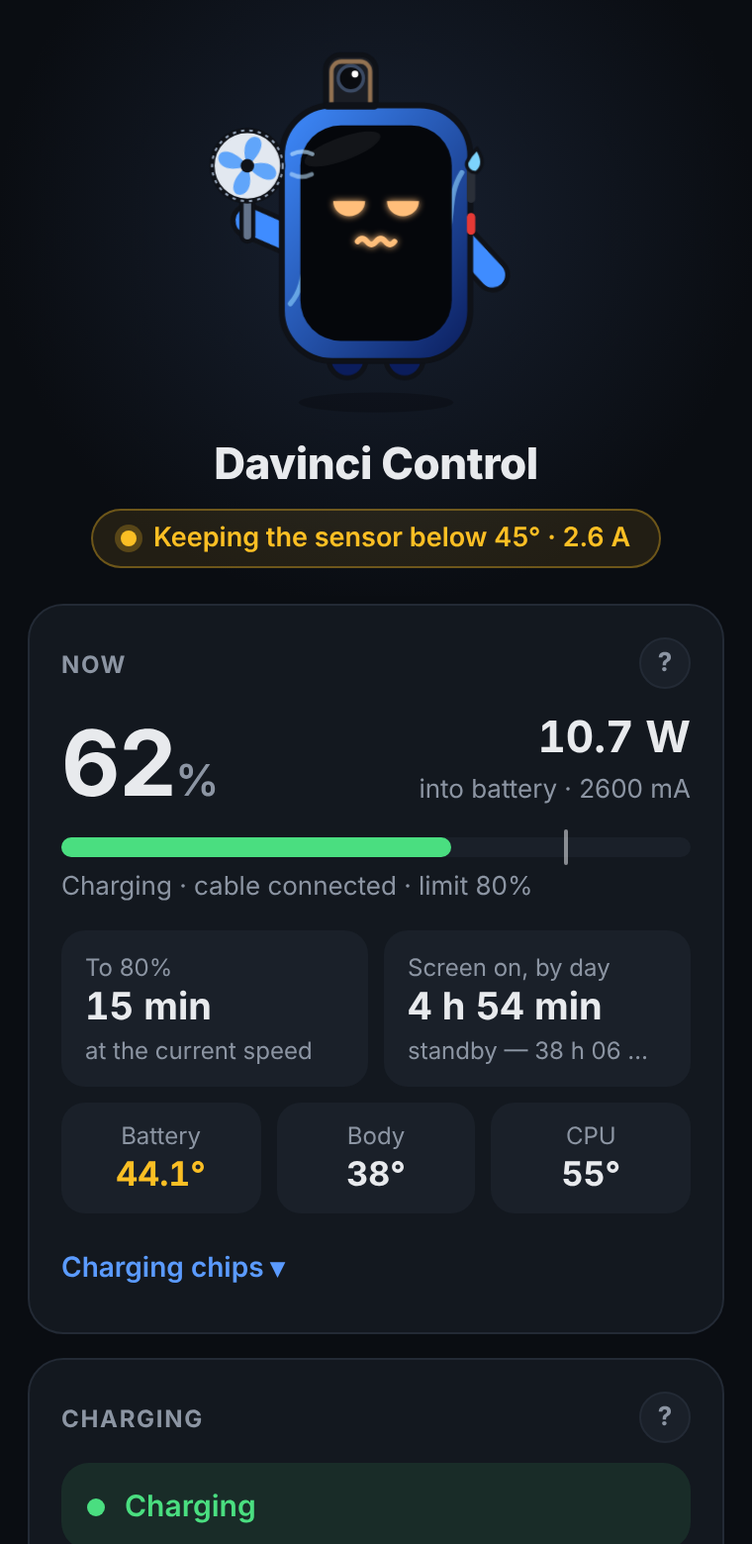
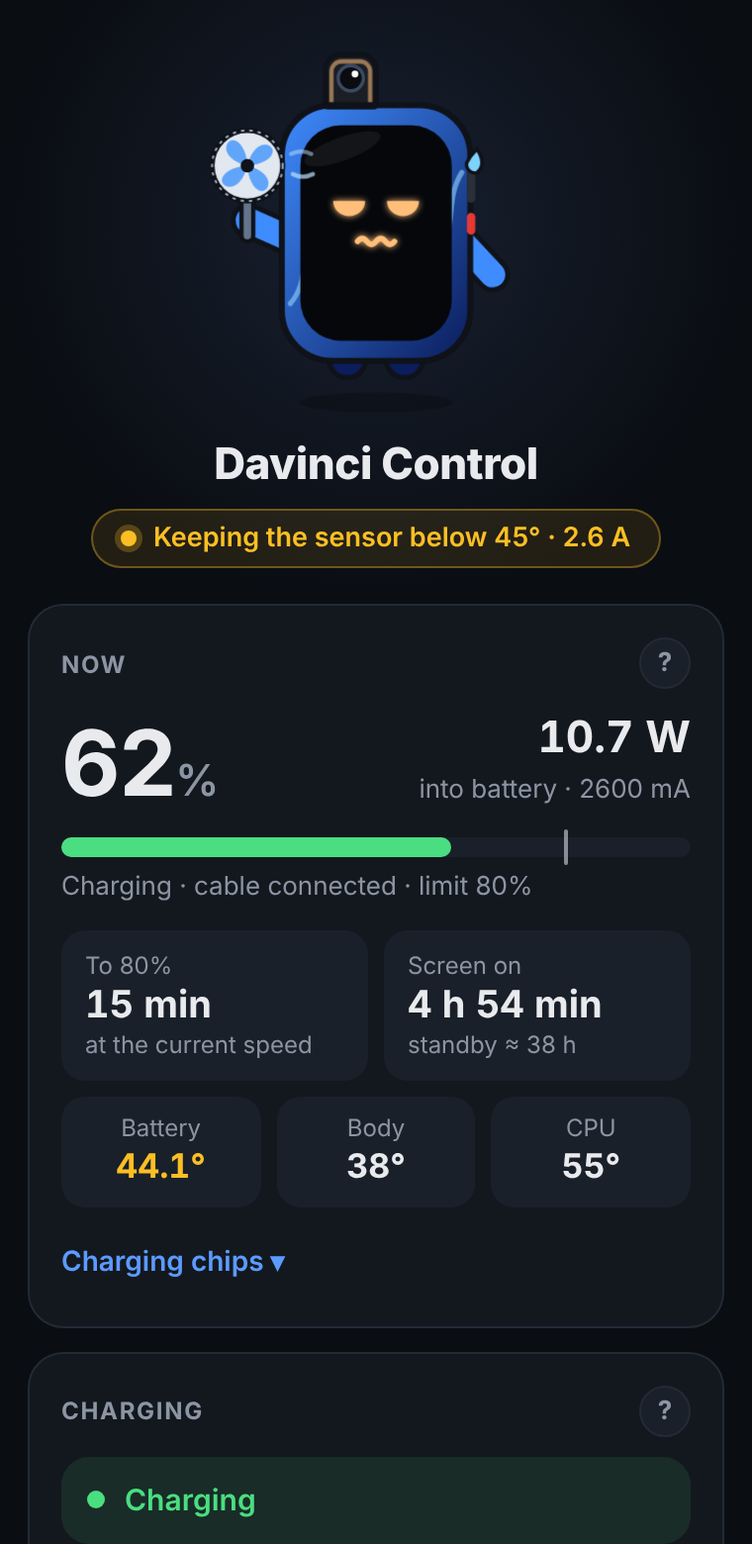
Панель: выравнивание плиток, записи в две строки, время в 24 часах; диагностика: чтение с пределом времени / panel alignment pass; time-boxed reads in diagnostics
- плитки в ряду делят общие строки, короткие подписи / boxes share rows, shorter labels
- зарядки и ночи: главное и подробности отдельными строками / charges and nights as two-line records
- время «к времени» — два списка, всегда 24 часа / charge-by-time as two lists, always 24-hour
- диагностика: charger_temp без кабеля не отвечает — чтение не дольше 3 с / reads limited to 3 s

diff --git a/module/webroot/i18n.js b/module/webroot/i18n.js
@@ -24,8 +24,8 @@ const I18N = {
     // сейчас / now
     now: 'Сейчас', in_batt: 'в батарею', usage: 'расход', st_Charging: 'Заряжается', st_Discharging: 'Разряжается', 'st_Not charging': 'Не заряжается', st_Full: 'Заряжена',
     cable: 'кабель подключён', limit_short: 'лимит {1}%', to_target: 'До {1}%', ready: 'готово', at_speed: 'при текущей скорости',
-    last_now: 'Хватит при текущем расходе', to_zero: 'до 0%, сглажено', by_day: 'С экраном, по суткам', standby: 'в ожидании — {1}', collecting: 'данные копятся',
-    t_batt: 'Батарея', t_body: 'Корпус', t_cpu: 'Процессор', chips: 'Микросхемы зарядки', t_pmic: 'Чип PM6150', t_cp: 'Чип SMB1390', t_conn: 'Разъём',
+    last_now: 'Хватит на', to_zero: 'при таком расходе', by_day: 'С экраном', standby: 'в ожидании ≈ {1}', fmt_h: '{1} ч', fb_h: 'Часы', fb_m: 'Минуты', collecting: 'данные копятся',
+    t_batt: 'Батарея', t_body: 'Корпус', t_cpu: 'Процессор', chips: 'Микросхемы зарядки', t_pmic: 'PM6150', t_cp: 'SMB1390', t_conn: 'Разъём',
     h_now: 'Заряд, мощность и прогноз. «Датчик батареи» стоит у разъёма: на быстрой зарядке он показывает на 6–11° больше, чем сама батарея. «Микросхемы зарядки»: PM6150 — контроллер зарядки, SMB1390 — микросхема быстрой зарядки (включается на большом токе; пока выключена, температуры нет) и разъём. Они тоже могут снижать ток.',
     // зарядка / charging
     charging: 'Зарядка', c_nosw: 'Лимит не работает: ядро не даёт остановить зарядку', c_nocable: 'Кабель не подключён', c_full: 'Заряжается до 100% (разово)', c_fullby: 'Заряжается до 100% к {1}',
@@ -45,9 +45,9 @@ const I18N = {
     thermal: 'Заводское снижение тока при нагреве корпуса', th_module: 'Сейчас отключено: из-за тёплого корпуса ток не снижается. Защита батареи в ядре работает.', th_stock: 'Сейчас работает: прошивка сама снижает ток, когда греется корпус.',
     th_mismatch: 'Работает и не отключается: файлы прошивки отличаются от проверенных.', th_nomount: 'Сейчас работает: отключить не получилось — root-менеджер не подменяет файлы.', th_will_off: 'После перезагрузки будет отключено.', th_will_on: 'После перезагрузки заработает снова.',
     usbfast: 'Быстрая зарядка от компьютера', usbfast_s: '900 мА вместо 500 от USB-порта',
-    sessions: 'Последние зарядки', sess_none: 'Пока нет: появится после зарядки дольше 5 минут.', sess_line: '{1}→{2}% за {3} · +{4}%/ч · ср. {5} А · до {6}°{7}{8}{9}',
+    sessions: 'Последние зарядки', sess_none: 'Пока нет: появится после зарядки дольше 5 минут.', sess_main: '{1} → {2}% за {3}', sess_sub: '+{1}%/ч · в среднем {2} А · до {3}°{4}{5}{6}',
     sess_scr: ' · экран {1}%', sess_jl: ' · JEITA с задержкой {1} с', sess_ch: ' · {1}', mode_care: 'бережно', mode_fast: 'быстро',
-    dt: 'Ток по ступеням (из ядра)', dt_none: 'Таблица недоступна', dt_lvl: 'Ступень {1}', dt_fcc: 'Общая таблица', dt_qc3: 'Таблица для Quick Charge 3', dt_qc3cp: 'Таблица для Quick Charge 3 на большом токе (работает SMB1390)', dt_qc2: 'Таблица для Quick Charge 2 (ток на входе)', dt_dcp: 'Таблица для обычного блока (ток на входе)', dt_pd: 'Таблица для USB PD (ток на входе)',
+    dt: 'Ток по ступеням (из ядра)', dt_none: 'Таблица недоступна', dt_fcc: 'Общая таблица', dt_qc3: 'Таблица для Quick Charge 3', dt_qc3cp: 'Таблица для Quick Charge 3 на большом токе (работает SMB1390)', dt_qc2: 'Таблица для Quick Charge 2 (ток на входе)', dt_dcp: 'Таблица для обычного блока (ток на входе)', dt_pd: 'Таблица для USB PD (ток на входе)',
     h_charging: 'Модуль управляет зарядкой через ядро: лимит, пауза при нагреве и ступени тока — тот же рычаг, что у заводской термозащиты. Аппаратная защита батареи в ядре (JEITA выше 45°, отключение при перегреве) работает всегда.',
     h_mode: '«Бережно»: ток снижается ступенями, как только батарея теплеет выше 41°, пауза с 42°. Медленнее, но батарея служит дольше. «Быстро»: полный ток; если датчик подходит к 44°, ток немного снижается (2,7–2,0 А), чтобы ядро не обрезало его до 1,95 А и 4,1 В. Пауза с 48° — аварийная. Ступени берутся из таблицы ядра для подключённого блока и считаются по амперам.',
     h_limit: 'Когда заряд дойдёт до этого уровня, зарядка остановится, а телефон будет питаться от кабеля. Снова заряжать начнёт, когда заряд упадёт на 5%. Батарея, которая не стоит на 100%, служит заметно дольше.',
@@ -66,7 +66,7 @@ const I18N = {
     h_bra: 'Когда отключаешь кабель, включается автояркость.',
     h_brs: 'Когда отключаешь кабель, включается штатная экономия заряда Android. Если выключишь её в шторке, она включится снова при следующем включении экрана. На зарядке Android выключает её сам.',
     // производительность / performance
-    perf: 'Производительность', p_perf: 'Максимум', p_balance: 'Баланс', p_eco: 'Экономия', p_own: 'Свои', p_custom: 'Свои пределы: малые ядра — {1}, большие — {2}. Меняются в «Точной настройке» ниже.',
+    perf: 'Производительность', p_perf: 'Макс.', p_balance: 'Баланс', p_eco: 'Эконом', p_own: 'Свои', p_custom: 'Свои пределы: малые ядра — {1}, большие — {2}. Меняются в «Точной настройке» ниже.',
     ph_perf: 'Без ограничений: самый быстрый отклик, больше нагрев и расход.', ph_balance: 'Малые ядра до 1612 МГц: интерфейс так же плавный, нагрев меньше. Большие — без ограничений.',
     ph_eco: 'Малые до 1324, большие до 1708 МГц: заметно меньше нагрев, тяжёлые приложения открываются чуть дольше.',
     little: 'Малые ядра', big: 'Большие ядра', gpu: 'Видеочип', of_mhz: '{1} из {2} МГц', heat: 'нагрев', gpu_now: '{1} МГц · загрузка {2}%',
@@ -79,9 +79,9 @@ const I18N = {
     g_drain: 'Расход по часам', lg_drain: 'за последние сутки', lg_typ_on: 'обычно с экраном: {1}', lg_typ_off: 'обычно во сне: {1}',
     g_cap: 'Заряд', g_temp: 'Температура батареи', ax24: '−24 ч', ax12: '−12 ч', axnow: 'сейчас', lg_pause: 'зарядка на паузе', lg_thr: 'порог', lg_gap: 'разрыв — телефон спал', every5: 'точка раз в 5 мин',
     nights: 'Ночи', night_none: 'Замеров пока нет: нужен период дольше 30 мин без кабеля с выключенным экраном.',
-    night_line: '{1} · {2} · −{3}% ({4}%/ч){5} · глубокий сон {6}%{7}{8}', night_ma: ' · {1} мА', night_mob: ' · моб. сеть {1}% трафика', night_sim: ' · SIM: {1}',
+    night_main: '−{1}% за {2}{3}', night_sub: '{1}%/ч · глубокий сон {2}%{3}{4}', night_ma: ' · {1} мА', night_mob: ' · моб. сеть {1}%', night_sim: ' · SIM: {1}',
     weeks: 'По неделям, средний ток во сне', week: 'нед. {1}', alert_sw: 'Предупреждать, если расход вырос',
-    health: 'Ёмкость батареи', cycles: 'Циклов зарядки', deep: 'Глубокий сон с загрузки', of_mah: '{1}% · {2} из {3} мАч',
+    health: 'Ёмкость', cycles: 'Циклов зарядки', deep: 'Глубокий сон с загрузки', of_mah: '{1}% · {2} из {3} мАч',
     h_use: 'Сколько уходит заряда с включённым и выключенным экраном за последние сутки. График расхода: сплошная линия — средний ток за каждый час, пунктир — обычный уровень за 7 дней: верхний — с включённым экраном, нижний — во сне. Ночью линия должна идти у нижнего пунктира; если она заметно выше, телефону что-то не даёт спать. Ниже — графики заряда и температуры и замеры ночного расхода. Данные хранятся только на телефоне.',
     h_nights: 'Замер — каждый период дольше 30 минут без кабеля с выключенным экраном. Рядом причины: глубокий сон (чем ближе к 100%, тем лучше), какая доля трафика шла через мобильную сеть (она расходует больше Wi-Fi) и сколько SIM-карт активно.',
     h_weeks: 'Средний ток во сне по неделям. Если за последнюю неделю он заметно вырос (на 30% и хотя бы на 10 мА), панель предупредит.',
@@ -91,13 +91,13 @@ const I18N = {
     diag_hint: 'Подробный технический отчёт о зарядке, нагреве и расходе — для сообщения об ошибке. Занимает около минуты. Файл сохраняется в «Загрузки/davinci-control» и никуда не отправляется. Адреса почты, IP и MAC в нём заменяются заглушками.',
     savelog: 'Сохранить только журнал', savelog_hint: 'Короткий файл: события модуля, настройки, последние зарядки и замеры расхода. Сохраняется мгновенно туда же.', saved_to: 'Сохранено: {1}', diag_busy: 'Диагностика уже идёт', diag_started: 'Диагностика запущена — около минуты',
     de_stuck: 'Диагностика остановилась и не ответила. Запусти ещё раз.', de_stopped: 'Остановлена перезапуском модуля', de_write: 'Не удалось записать файл',
-    restart: 'Перезапустить модуль', restart_hint: 'Если панель или диагностика зависли. Служба останавливается и запускается заново; настройки, журнал, статистика и текущая зарядка сохраняются. Перед этим модуль записывает, какие его процессы зависли и на чём, — запись попадёт в журнал и диагностику.', restart_run: 'Перезапускаю…', restart_ok: 'Перезапущено, служба работает', restart_bad: 'Служба не запустилась — перезагрузи телефон',
+    restart: 'Перезапустить модуль', restart_hint: 'Если панель или диагностика зависли. Настройки, журнал и статистика сохраняются.', h_restart: 'Служба и диагностика останавливаются и запускаются заново, телефон перезагружать не нужно. Настройки, журнал, статистика и текущая зарядка сохраняются. Перед этим модуль записывает, какие его процессы зависли и на чём, — запись попадёт в журнал и в следующую диагностику.', restart_run: 'Перезапускаю…', restart_ok: 'Перезапущено, служба работает', restart_bad: 'Служба не запустилась — перезагрузи телефон',
     applog: 'Записывать установку приложений', applog_s: 'Какие приложения ставились и удалялись — помогает найти причину расхода', h_applog: 'В журнал попадают имена пакетов установленных, обновлённых и удалённых приложений. Удобно, когда расход вырос и нужно понять, после чего. Записи остаются только в журнале на телефоне. По умолчанию выключено.',
     h_log: 'Что модуль делал и почему: здесь 10 последних событий, остальные — по кнопке «Все события». Если что-то работает не так, собери диагностику (или сохрани журнал) и приложи файл к сообщению об ошибке на GitHub. Сам модуль ничего никуда не отправляет.',
     // настройки панели / panel settings
-    panel: 'Панель', lang: 'Язык', l_auto: 'Как в системе', skin: 'Цвет маскота', sk_blue: 'Glacier Blue', sk_red: 'Flame Red', sk_black: 'Carbon Black',
+    panel: 'Панель', lang: 'Язык', l_auto: 'Авто', skin: 'Цвет маскота', sk_blue: 'Glacier Blue', sk_red: 'Flame Red', sk_black: 'Carbon Black',
     ntf: 'Уведомления', ntf_s: 'Пауза зарядки, заряд к времени, рост расхода', h_ntf: 'Модуль пишет в шторку, когда зарядка встала на паузу (лимит или нагрев), когда батарея заряжена к заданному времени и когда вырос расход во сне. Уведомления приходят от имени системного приложения «Shell» (Оболочка). При включении придёт пробное: если его нет, разреши уведомления для «Shell» в настройках Android. По умолчанию выключено.',
-    h_panel: 'Язык панели и журнала, цвет маскота и уведомления. «Как в системе» — русский, если телефон на русском, иначе английский.',
+    h_panel: 'Язык панели и журнала, цвет маскота и уведомления. «Авто» — русский, если телефон на русском, иначе английский.',
     whatsnew: 'что нового', current: 'текущая', loading: 'загрузка…',
     fmt_d: '{1} дн', fmt_hm: '{1} ч {2} мин', fmt_m: '{1} мин',
   },
@@ -122,8 +122,8 @@ const I18N = {
     p_nomount: 'Module thermal configs are not mounted: the root manager does not overlay files (KernelSU needs a metamodule).',
     now: 'Now', in_batt: 'into battery', usage: 'drain', st_Charging: 'Charging', st_Discharging: 'Discharging', 'st_Not charging': 'Not charging', st_Full: 'Full',
     cable: 'cable connected', limit_short: 'limit {1}%', to_target: 'To {1}%', ready: 'done', at_speed: 'at the current speed',
-    last_now: 'Lasts at the current drain', to_zero: 'to 0%, smoothed', by_day: 'Screen on, by day', standby: 'standby — {1}', collecting: 'collecting data',
-    t_batt: 'Battery', t_body: 'Body', t_cpu: 'CPU', chips: 'Charging chips', t_pmic: 'PM6150 chip', t_cp: 'SMB1390 chip', t_conn: 'Connector',
+    last_now: 'Lasts', to_zero: 'at this drain', by_day: 'Screen on', standby: 'standby ≈ {1}', fmt_h: '{1} h', fb_h: 'Hours', fb_m: 'Minutes', collecting: 'collecting data',
+    t_batt: 'Battery', t_body: 'Body', t_cpu: 'CPU', chips: 'Charging chips', t_pmic: 'PM6150', t_cp: 'SMB1390', t_conn: 'Connector',
     h_now: 'Charge, power and estimate. The battery sensor sits by the connector: on fast charging it reads 6–11° more than the battery itself. Charging chips: PM6150 is the charging controller, SMB1390 is the charge pump (it turns on at high current; no temperature while it is off), plus the connector. They can reduce current too.',
     charging: 'Charging', c_nosw: 'The limit does not work: the kernel does not allow stopping charging', c_nocable: 'Cable not connected', c_full: 'Charging to 100% (once)', c_fullby: 'Charging to 100% by {1}',
     c_hot: 'Paused: battery {1}°, resuming at {2}°', c_lim: 'Paused at {1}% — running on the cable', c_chg: 'Charging', c_idle: 'Cable connected, battery not charging',
@@ -142,9 +142,9 @@ const I18N = {
     thermal: 'Stock current reduction when the body is warm', th_module: 'Off now: a warm body does not reduce the current. Battery protection in the kernel works.', th_stock: 'Working now: the ROM reduces the current when the body warms up.',
     th_mismatch: 'Working and cannot be turned off: the ROM configs differ from the tested ones.', th_nomount: 'Working now: turning it off failed — the root manager does not overlay files.', th_will_off: 'Will be off after a reboot.', th_will_on: 'Will work again after a reboot.',
     usbfast: 'Fast charging from a computer', usbfast_s: '900 mA instead of 500 from a USB port',
-    sessions: 'Recent charges', sess_none: 'None yet: appears after charging for more than 5 minutes.', sess_line: '{1}→{2}% in {3} · +{4}%/h · avg {5} A · up to {6}°{7}{8}{9}',
+    sessions: 'Recent charges', sess_none: 'None yet: appears after charging for more than 5 minutes.', sess_main: '{1} → {2}% in {3}', sess_sub: '+{1}%/h · {2} A on average · up to {3}°{4}{5}{6}',
     sess_scr: ' · screen {1}%', sess_jl: ' · JEITA delayed {1} s', sess_ch: ' · {1}', mode_care: 'care', mode_fast: 'fast',
-    dt: 'Current per level (from the kernel)', dt_none: 'Table not available', dt_lvl: 'Level {1}', dt_fcc: 'General table', dt_qc3: 'Table for Quick Charge 3', dt_qc3cp: 'Table for Quick Charge 3 at high current (charge pump on)', dt_qc2: 'Table for Quick Charge 2 (input current)', dt_dcp: 'Table for a plain charger (input current)', dt_pd: 'Table for USB PD (input current)',
+    dt: 'Current per level (from the kernel)', dt_none: 'Table not available', dt_fcc: 'General table', dt_qc3: 'Table for Quick Charge 3', dt_qc3cp: 'Table for Quick Charge 3 at high current (charge pump on)', dt_qc2: 'Table for Quick Charge 2 (input current)', dt_dcp: 'Table for a plain charger (input current)', dt_pd: 'Table for USB PD (input current)',
     h_charging: 'The module controls charging through the kernel: limit, heat pause and current levels — the same lever as stock thermal protection. Hardware battery protection in the kernel (JEITA above 45°, cut-off on overheating) always works.',
     h_mode: 'Care: current goes down in steps as soon as the battery warms above 41°, pause from 42°. Slower, but the battery lasts longer. Fast: full current; when the sensor approaches 44°, current is reduced a little (2.7–2.0 A) so the kernel does not cut it to 1.95 A and 4.1 V. Pause from 48° is an emergency one. Levels come from the kernel table for the connected charger and are picked by amps.',
     h_limit: 'When the charge reaches this level, charging stops and the phone runs on the cable. It starts again when the charge drops by 5%. A battery that does not sit at 100% lasts noticeably longer.',
@@ -161,7 +161,7 @@ const I18N = {
     h_brc: 'While the cable is connected — 100% brightness. Handy if the phone works as a display on a stand. Downside: it gets warmer and charges slower. Off by default.',
     h_bra: 'When you unplug the cable, auto brightness turns on.',
     h_brs: 'When you unplug the cable, Android\'s Battery Saver turns on. If you turn it off in quick settings, it comes back the next time the screen turns on. Android turns it off while charging.',
-    perf: 'Performance', p_perf: 'Maximum', p_balance: 'Balance', p_eco: 'Economy', p_own: 'Custom', p_custom: 'Custom limits: little cores — {1}, big — {2}. Change them in Fine tuning below.',
+    perf: 'Performance', p_perf: 'Max', p_balance: 'Balance', p_eco: 'Eco', p_own: 'Custom', p_custom: 'Custom limits: little cores — {1}, big — {2}. Change them in Fine tuning below.',
     ph_perf: 'No limits: the fastest response, more heat and drain.', ph_balance: 'Little cores up to 1612 MHz: the interface is just as smooth, less heat. Big cores unlimited.',
     ph_eco: 'Little up to 1324, big up to 1708 MHz: noticeably less heat, heavy apps open a bit slower.',
     little: 'Little cores', big: 'Big cores', gpu: 'GPU', of_mhz: '{1} of {2} MHz', heat: 'heat', gpu_now: '{1} MHz · load {2}%',
@@ -173,9 +173,9 @@ const I18N = {
     g_drain: 'Drain by hour', lg_drain: 'over the last day', lg_typ_on: 'usual with the screen on: {1}', lg_typ_off: 'usual in sleep: {1}',
     g_cap: 'Charge', g_temp: 'Battery temperature', ax24: '−24 h', ax12: '−12 h', axnow: 'now', lg_pause: 'charging paused', lg_thr: 'threshold', lg_gap: 'gap — the phone was asleep', every5: 'a point every 5 min',
     nights: 'Nights', night_none: 'No measurements yet: needs more than 30 min unplugged with the screen off.',
-    night_line: '{1} · {2} · −{3}% ({4}%/h){5} · deep sleep {6}%{7}{8}', night_ma: ' · {1} mA', night_mob: ' · mobile data {1}% of traffic', night_sim: ' · SIMs: {1}',
+    night_main: '−{1}% in {2}{3}', night_sub: '{1}%/h · deep sleep {2}%{3}{4}', night_ma: ' · {1} mA', night_mob: ' · mobile data {1}%', night_sim: ' · SIMs: {1}',
     weeks: 'By week, average current in sleep', week: 'wk {1}', alert_sw: 'Warn if drain went up',
-    health: 'Battery capacity', cycles: 'Charge cycles', deep: 'Deep sleep since boot', of_mah: '{1}% · {2} of {3} mAh',
+    health: 'Capacity', cycles: 'Charge cycles', deep: 'Deep sleep since boot', of_mah: '{1}% · {2} of {3} mAh',
     h_use: 'How much charge goes with the screen on and off over the last day. Drain chart: the solid line is the average current for each hour, the dashed lines are the usual 7-day level: the upper one with the screen on, the lower one in sleep. At night the line should run near the lower dashes; if it is well above, something keeps the phone awake. Below are the charge and temperature charts and overnight drain measurements. The data stays on the phone only.',
     h_nights: 'A measurement is every period longer than 30 minutes unplugged with the screen off. Next to it are the causes: deep sleep (the closer to 100%, the better), what share of traffic went over mobile data (it costs more than Wi-Fi) and how many SIM cards are active.',
     h_weeks: 'Average current in sleep by week. If it went up noticeably over the last week (by 30% and at least 10 mA), the panel warns you.',
@@ -184,12 +184,12 @@ const I18N = {
     diag_hint: 'A detailed technical report on charging, heat and drain — for a bug report. Takes about a minute. The file is saved to Download/davinci-control and is not sent anywhere. E-mail, IP and MAC addresses in it are replaced with placeholders.',
     savelog: 'Save the log only', savelog_hint: 'A short file: module events, settings, recent charges and drain measurements. Saved instantly to the same folder.', saved_to: 'Saved: {1}', diag_busy: 'Diagnostics is already running', diag_started: 'Diagnostics started — about a minute',
     de_stuck: 'Diagnostics stopped and did not answer. Run it again.', de_stopped: 'Stopped by a module restart', de_write: 'Could not write the file',
-    restart: 'Restart the module', restart_hint: 'For when the panel or diagnostics hang. The service stops and starts again; settings, the log, statistics and the current charge are kept. Before that the module records which of its processes hung and where — the record goes into the log and diagnostics.', restart_run: 'Restarting…', restart_ok: 'Restarted, the service is running', restart_bad: 'The service did not start — reboot the phone',
+    restart: 'Restart the module', restart_hint: 'For when the panel or diagnostics hang. Settings, the log and statistics are kept.', h_restart: 'The service and diagnostics stop and start again, no phone reboot needed. Settings, the log, statistics and the current charge are kept. Before that the module records which of its processes hung and where — the record goes into the log and the next diagnostics.', restart_run: 'Restarting…', restart_ok: 'Restarted, the service is running', restart_bad: 'The service did not start — reboot the phone',
     applog: 'Log app installs', applog_s: 'Which apps were installed and removed — helps find the cause of drain', h_applog: 'The log gets the package names of installed, updated and removed apps. Handy when drain went up and you want to know what changed. The records stay in the log on the phone only. Off by default.',
     h_log: 'What the module did and why: the 10 latest events are here, the rest are under All events. If something works wrong, collect diagnostics (or save the log) and attach the file to a bug report on GitHub. The module itself sends nothing anywhere.',
-    panel: 'Panel', lang: 'Language', l_auto: 'System', skin: 'Mascot colour', sk_blue: 'Glacier Blue', sk_red: 'Flame Red', sk_black: 'Carbon Black',
+    panel: 'Panel', lang: 'Language', l_auto: 'Auto', skin: 'Mascot colour', sk_blue: 'Glacier Blue', sk_red: 'Flame Red', sk_black: 'Carbon Black',
     ntf: 'Notifications', ntf_s: 'Charging pauses, charge-by-time, drain going up', h_ntf: 'The module posts a notification when charging is paused (limit or heat), when the battery is charged by the set time and when sleep drain goes up. Notifications come from the system app Shell. A test one arrives when you turn this on: if it does not, allow notifications for Shell in Android settings. Off by default.',
-    h_panel: 'Language of the panel and the log, the mascot colour and notifications. “System” — Russian if the phone is in Russian, otherwise English.',
+    h_panel: 'Language of the panel and the log, the mascot colour and notifications. “Auto” — Russian if the phone is in Russian, otherwise English.',
     whatsnew: 'what\'s new', current: 'current', loading: 'loading…',
     fmt_d: '{1} d', fmt_hm: '{1} h {2} min', fmt_m: '{1} min',
   },

diff --git a/module/webroot/app.js b/module/webroot/app.js
@@ -159,7 +159,16 @@ for (const [id, cmd, key] of [['brC', 'brightcharge', 'bright'], ['brA', 'autoba
   });
 }
 // зарядить к времени / charge by time
-const fbT = $('fbTime'), fbOn = $('fbOn');
+// время — два списка (часы и минуты по 5): родное поле времени в WebView показывает AM/PM по языку системы
+// time is two lists (hours, minutes by 5): the native time field shows AM/PM depending on the system language
+const fbH = $('fbH'), fbM = $('fbM'), fbOn = $('fbOn'), p2 = n => String(n).padStart(2, '0');
+for (let i = 0; i < 24; i++) fbH.add(new Option(p2(i), p2(i)));
+for (let i = 0; i < 60; i += 5) fbM.add(new Option(p2(i), p2(i)));
+const fbT = {
+  get value() { return fbH.value + ':' + fbM.value; },
+  set value(v) { const [h, m] = v.split(':'); if (![...fbM.options].some(o => o.value === m)) fbM.add(new Option(m, m)); fbH.value = h; fbM.value = m; },
+};
+fbT.value = '07:00';
 try { const v = localStorage.getItem('dc.fb'); if (/^([01]\d|2[0-3]):[0-5]\d$/.test(v || '')) fbT.value = v; } catch (e) { /* нет хранилища / no storage */ }
 function fbApply() {
   const v = /^([01]\d|2[0-3]):[0-5]\d$/.test(fbT.value) ? fbT.value : '07:00', want = fbOn.checked ? v : '';
@@ -167,7 +176,7 @@ function fbApply() {
   apply('fb', want ? 'fullby ' + v : 'fullby off', want, d => d.conf.fullBy === want, $('fbConf'));
 }
 fbOn.addEventListener('change', fbApply);
-fbT.addEventListener('change', () => { if (fbOn.checked) fbApply(); });
+for (const s of [fbH, fbM]) s.addEventListener('change', () => { if (fbOn.checked) fbApply(); });
 
 // ---------- окно и подсказки / sheet and help popovers ----------
 function openSheet(title, node, withBtns) {
@@ -337,6 +346,8 @@ $('headS').addEventListener('click', () => { if (probGo) goTo(probGo === 'proble
 
 // ---------- рисование / rendering ----------
 const mhz = k => Math.floor((k || 0) / 1000);
+// коротко, для пояснений: «13 ч», «7,5 ч», «3 дн.» / short form for notes
+const fmtS = h => !isFinite(h) || h <= 0 ? '—' : h >= 48 ? t('fmt_d', Math.round(h / 24)) : t('fmt_h', h >= 10 ? Math.round(h) : dec(h, 1));
 const fmtH = h => { if (!isFinite(h) || h <= 0) return '—'; if (h >= 48) return t('fmt_d', Math.round(h / 24)); const H = Math.floor(h), M = Math.round((h - H) * 60); return H ? t('fmt_hm', H, String(M).padStart(2, '0')) : t('fmt_m', M); };
 const tm = s => { const d = new Date(s * 1000); return d.toLocaleDateString(LANG === 'en' ? 'en-GB' : 'ru-RU', { day: '2-digit', month: '2-digit' }) + ' ' + d.toLocaleTimeString(LANG === 'en' ? 'en-GB' : 'ru-RU', { hour: '2-digit', minute: '2-digit' }); };
 function rates(h) {
@@ -392,9 +403,14 @@ function dist(el, rows) {
 function items(el, rows, empty) {
   el.innerHTML = '';
   if (!rows.length) { el.innerHTML = `<li class="empty"></li>`; el.firstChild.textContent = empty; return; }
-  for (const [when, text] of rows) {
+  for (const [when, text, sub] of rows) {
     const li = document.createElement('li'); const b = document.createElement('b'); b.textContent = when;
-    li.appendChild(b); li.appendChild(document.createTextNode(text)); el.appendChild(li);
+    if (sub == null) { li.appendChild(b); li.appendChild(document.createTextNode(text)); }
+    else {  // главное слева, время справа, подробности ниже / headline left, time right, details below
+      li.className = 'two'; const m = document.createElement('strong'), s = document.createElement('small'); m.textContent = text; s.textContent = sub;
+      li.append(m, b, s);
+    }
+    el.appendChild(li);
   }
 }
 // какую таблицу ядро берёт для этого блока (smblib_therm_charging) / which table the kernel uses for this charger
@@ -470,7 +486,7 @@ function render(d) {
   }
   const onR = rt.on.dt >= 1200 ? rt.on.drop * 3600 / rt.on.dt : null, offR = rt.off.dt >= 1200 ? rt.off.drop * 3600 / rt.off.dt : null;
   $('e2').textContent = onR ? fmtH(b.cap / onR) : '—';
-  $('e2s').textContent = offR ? t('standby', fmtH(b.cap / Math.max(offR, 0.1))) : t('collecting');
+  $('e2s').textContent = offR ? t('standby', fmtS(b.cap / Math.max(offR, 0.1))) : t('collecting');
   $('tB').textContent = deg(b.temp); tcls($('tB'), b.temp / 10, 40, 45);
   $('tQ').textContent = nw.tQuiet == null ? '—' : nw.tQuiet + '°'; tcls($('tQ'), nw.tQuiet, 45, 50);
   $('tC').textContent = nw.tCpu == null ? '—' : nw.tCpu + '°'; tcls($('tC'), nw.tCpu, 70, 80);
@@ -508,7 +524,7 @@ function render(d) {
   const fb = $('full'); fb.className = 'btn' + (full ? ' on' : ''); fb.textContent = full ? t('full_cancel') : t('full_once');
   // зарядить к времени / charge by time
   const fbv = pend('fb') ?? (cf.fullBy || '');
-  fbOn.checked = !!fbv; if (fbv && document.activeElement !== fbT) fbT.value = fbv;
+  fbOn.checked = !!fbv; if (fbv && document.activeElement !== fbH && document.activeElement !== fbM && fbT.value !== fbv) fbT.value = fbv;
   $('fbHint').textContent = !fbv ? t('fb_off') : cf.limit >= 100 ? t('fb_nolimit') : cc.fb === 1 && c.plugged ? t('fb_go', fbv) : t('fb_wait', cf.limit, fbv);
   // файлы нагрева / thermal configs
   const th = d.ok.thermal || 'stock', want = pend('thC') ?? cf.thermalChg;
@@ -524,12 +540,12 @@ function render(d) {
     const [s0, s1, c0, c1, ma, tmax, typ, pw, mode, scr, jl] = l.split(',');
     const dur = (s1 - s0) / 3600, rate = dur > 0 ? Math.round((c1 - c0) / dur) : 0;
     const chn = typ && typ !== '?' ? (I18N.en['ch_' + typ] ? t('ch_' + typ) : typ) + (+pw > 0 ? ', ' + pw + (LANG === 'en' ? ' W' : ' Вт') : '') : '';
-    return [tm(+s0), t('sess_line', c0, c1, fmtH(dur), rate, dec(ma / 1000, 1), dec(tmax / 10, 1), chn ? t('sess_ch', chn + ' · ' + t('mode_' + mode)) : ' · ' + t('mode_' + mode), +scr > 0 ? t('sess_scr', scr) : '', +jl > 0 ? t('sess_jl', jl) : '')];
+    return [tm(+s0), t('sess_main', c0, c1, fmtH(dur)), t('sess_sub', rate, dec(ma / 1000, 1), dec(tmax / 10, 1), chn ? t('sess_ch', chn + ' · ' + t('mode_' + mode)) : ' · ' + t('mode_' + mode), +scr > 0 ? t('sess_scr', scr) : '', +jl > 0 ? t('sess_jl', jl) : '')];
   }), t('sess_none'));
   // таблица тока / current table
   const dtx = dtFor(d), fcc = dtx ? dtx[1] : [];
   $('dtName').textContent = dtx ? t('dt_' + dtx[0]) : '';
-  $('dtTable').innerHTML = fcc.length ? '<div class="dtt">' + fcc.slice(0, 16).map((v, i) => `<div class="${cc.lvl === i ? 'cur' : ''}">${esc(t('dt_lvl', i))}<b>${v ? dec(v / 1e6, 1) + ' A' : '0'}</b></div>`).join('') + '</div>' : `<div class="empty">${t('dt_none')}</div>`;
+  $('dtTable').innerHTML = fcc.length ? '<div class="dtt">' + fcc.slice(0, 16).map((v, i) => `<div class="${cc.lvl === i ? 'cur' : ''}">${i}<b>${v ? dec(v / 1e6, 1) + ' A' : '0'}</b></div>`).join('') + '</div>' : `<div class="empty">${t('dt_none')}</div>`;
 
   // яркость / brightness
   const bl = d.bl || {};
@@ -552,7 +568,7 @@ function render(d) {
   if (d.dist) { dist($('dLittle'), d.dist.little); dist($('dBig'), d.dist.big); dist($('dGpu'), d.dist.gpu); }
 
   // расход / usage
-  const setR = (id, r, rr) => { $(id).textContent = rr ? t('pph', dec(rr, 1)) : '—'; $(id + 'S').textContent = rr ? t('drop_in', r.drop, fmtH(r.dt / 3600)) : t('collecting'); };
+  const setR = (id, r, rr) => { $(id).textContent = rr ? t('pph', dec(rr, 1)) : '—'; $(id + 'S').textContent = rr ? t('drop_in', r.drop, fmtS(r.dt / 3600)) : t('collecting'); };
   setR('rOn', rt.on, onR); setR('rOff', rt.off, offR);
   const oh = $('offHint'); oh.textContent = offR != null && offR > 2 ? t('off_hint', dec(offR, 1)) : ''; oh.hidden = !oh.textContent;
   const typ = d.typ || {}, ma = LANG === 'en' ? ' mA' : ' мА', dr = drainChart($('gDrain'), h, fullMah, typ, d.time);
@@ -567,8 +583,9 @@ function render(d) {
     $('hTemp').textContent = `${Math.min(...temps).toFixed(0)}–${Math.max(...temps).toFixed(0)}°`;
   } else { $('hCap').textContent = t('every5'); $('hTemp').textContent = ''; }
   const nights = (d.drain || []).map(l => l.split(',').map(Number));
-  items($('drain'), nights.slice(-8).reverse().map(([end, dur, drop, mah, deep, mob, share, sims]) => [tm(end), t('night_line', '', fmtH(dur / 3600), drop, dec(drop * 3600 / dur, 1), mah > 0 ? t('night_ma', Math.round(mah * 3600 / dur)) : '', deep,
-    share >= 0 ? t('night_mob', share) : '', sims >= 0 ? t('night_sim', sims) : '').replace(/^ · /, '')]), t('night_none'));
+  items($('drain'), nights.slice(-8).reverse().map(([end, dur, drop, mah, deep, mob, share, sims]) => [tm(end),
+    t('night_main', drop, fmtH(dur / 3600), mah > 0 ? t('night_ma', Math.round(mah * 3600 / dur)) : ''),
+    t('night_sub', dec(drop * 3600 / dur, 1), deep, share >= 0 ? t('night_mob', share) : '', sims >= 0 ? t('night_sim', sims) : '')]), t('night_none'));
   // по неделям / by week
   const wk = {}; nights.forEach(([end, dur, , mah]) => { if (mah > 0) { const w = Math.floor((d.time - end) / 604800); if (w < 6) { (wk[w] = wk[w] || []).push(mah * 3600 / dur); } } });
   const wl = [5, 4, 3, 2, 1, 0].map(w => [w, wk[w] ? wk[w].reduce((a, x) => a + x, 0) / wk[w].length : null]);

diff --git a/module/webroot/style.css b/module/webroot/style.css
@@ -65,6 +65,12 @@ main { max-width: 560px; margin: 0 auto; padding: 4px 14px 40px }
 .hint.next { color: var(--warn); margin-top: 4px }
 .box .n { font-size: 19px; font-weight: 700; line-height: 1.3; white-space: nowrap; overflow: hidden; text-overflow: ellipsis }
 .temps { display: grid; grid-template-columns: repeat(3, minmax(0, 1fr)); gap: 8px; margin-top: 8px }
+/* плитки в ряду делят общие строки: подпись, число и пояснение стоят на одной высоте, даже если текст перенёсся */
+/* boxes in a row share rows: label, number and note line up even when a text wraps */
+.boxes, .temps { grid-template-rows: auto auto auto }
+.boxes > .box, .temps > .box { display: grid; grid-template-rows: subgrid; grid-row: span 3; row-gap: 2px; align-content: start }
+.temps > .box { grid-row: span 2 } .temps { grid-template-rows: auto auto }
+.box .l { align-self: end }
 .temps .box { min-height: 0; text-align: center; padding: 8px } .temps .n { font-size: 17px }
 .hot1 { color: var(--warn) } .hot2 { color: var(--bad) }
 
@@ -85,7 +91,8 @@ main { max-width: 560px; margin: 0 auto; padding: 4px 14px 40px }
 .hint { color: var(--muted); font-size: 13px; margin-top: 6px; display: block }
 .warnt { color: var(--warn) }
 .conf { font-size: 13px; min-height: 18px; margin-top: 4px; font-weight: 600; overflow: hidden; white-space: nowrap; text-overflow: ellipsis; transition: opacity .3s }
-.conf.wrap { white-space: normal }
+.conf.wrap { white-space: normal } .conf.wrap:empty { min-height: 0; margin: 0 }
+.btnq { display: flex; align-items: center; gap: 10px } .btnq .btn { flex: 1 }
 .conf.ok { color: var(--ok) } .conf.wait { color: var(--muted) } .conf.bad { color: var(--bad) }
 input[type=range] { width: 100%; accent-color: var(--accent); height: 34px; margin: 0 }
 .seg { display: grid; grid-auto-flow: column; grid-auto-columns: minmax(0, 1fr); background: var(--sub); border-radius: 12px; padding: 3px; gap: 3px }
@@ -101,8 +108,11 @@ input[type=range] { width: 100%; accent-color: var(--accent); height: 34px; marg
 .btns.one { grid-template-columns: 1fr }
 .fbrow { display: flex; align-items: center; gap: 10px; flex-wrap: wrap }
 .fbrow .hint { margin: 0; flex: 1; min-width: 150px }
-input[type=time] { font: 600 16px system-ui; font-variant-numeric: tabular-nums; color: var(--text); background: var(--sub); border: 1px solid var(--line); border-radius: 10px; padding: 8px 10px; min-height: 40px; color-scheme: light dark; transition: border-color .25s }
-input[type=time]:focus { outline: 0; border-color: var(--accent) }
+/* время — два списка: всегда 24 часа, как бы ни была настроена система / time as two lists: always 24-hour */
+.tsel { display: inline-flex; align-items: center; gap: 4px; background: var(--sub); border: 1px solid var(--line); border-radius: 10px; padding: 0 6px; min-height: 40px; transition: border-color .25s }
+.tsel:focus-within { border-color: var(--accent) }
+.tsel select { font: 600 16px system-ui; font-variant-numeric: tabular-nums; color: var(--text); background: transparent; border: 0; padding: 8px 2px; appearance: none; -webkit-appearance: none; text-align: center; color-scheme: light dark }
+.tsel select:focus { outline: 0 } .tsel b { color: var(--muted) }
 .btnrow { display: flex; gap: 10px; align-items: center }
 .switch { display: flex; align-items: center; justify-content: space-between; gap: 10px }
 .switch > div { min-width: 0; flex: 1; overflow-wrap: anywhere } .switch b { display: block; font-weight: 600 } .switch .hint { margin-top: 2px }
@@ -111,9 +121,9 @@ input[type=time]:focus { outline: 0; border-color: var(--accent) }
 .tg i { position: absolute; inset: 0; background: var(--line); border-radius: 99px; transition: background .25s }
 .tg i::after { content: ""; position: absolute; top: 3px; left: 3px; width: 24px; height: 24px; background: #fff; border-radius: 50%; transition: transform .25s var(--ease) }
 .tg input:checked + i { background: var(--accent) } .tg input:checked + i::after { transform: translateX(20px) }
-.skins { display: flex; gap: 10px; flex-wrap: wrap }
-.skins button { display: flex; align-items: center; gap: 8px; border: 1px solid var(--line); background: transparent; border-radius: 99px; padding: 6px 12px 6px 6px; font-size: 13.5px; transition: border-color .25s, background .25s }
-.skins button i { width: 22px; height: 22px; border-radius: 50%; border: 2px solid rgba(255, 255, 255, .15) }
+.skins { display: grid; grid-template-columns: repeat(3, minmax(0, 1fr)); gap: 8px }
+.skins button { display: flex; flex-direction: column; align-items: center; gap: 6px; border: 1px solid var(--line); background: transparent; border-radius: 12px; padding: 10px 4px 8px; font-size: 12.5px; line-height: 1.25; text-align: center; transition: border-color .25s, background .25s }
+.skins button i { width: 26px; height: 26px; border-radius: 50%; border: 2px solid rgba(255, 255, 255, .15) }
 .skins button.on { border-color: var(--accent); background: var(--accent-weak) }
 
 details.more { margin-top: 12px }
@@ -140,12 +150,16 @@ details.more > div { padding-top: 6px; animation: fadein .3s var(--ease) }
 .weeks .w i { display: block; width: 100%; max-width: 34px; border-radius: 6px 6px 3px 3px; background: var(--bar); transition: height .8s var(--ease) }
 .weeks .w.hi i { background: var(--warn) }
 .dtt { display: grid; grid-template-columns: repeat(4, minmax(0, 1fr)); gap: 6px; font-size: 12.5px }
-.dtt div { background: var(--sub); border-radius: 8px; padding: 5px 7px } .dtt div b { display: block; font-size: 14px }
+.dtt div { background: var(--sub); border-radius: 8px; padding: 5px 7px; color: var(--muted); display: flex; align-items: baseline; justify-content: space-between; gap: 4px } .dtt div b { font-size: 14px; color: var(--text); white-space: nowrap }
 .dtt div.cur { outline: 2px solid var(--accent) }
 
 ul.log { list-style: none; padding: 0; margin: 0; font-size: 13px }
 ul.log li { padding: 7px 0; border-top: 1px solid var(--line) } ul.log li:first-child { border-top: 0 }
 ul.log li b { color: var(--muted); font-weight: 500; font-variant-numeric: tabular-nums; margin-right: 6px }
+/* запись в две строки: главное крупнее, подробности серым ниже / a two-line record: the headline, then details in grey */
+ul.log li.two { display: grid; grid-template-columns: 1fr auto; gap: 2px 10px; align-items: baseline; padding: 9px 0 }
+ul.log li.two strong { font-size: 14.5px; font-weight: 600 } ul.log li.two b { margin: 0; font-size: 12.5px }
+ul.log li.two small { grid-column: 1 / -1; color: var(--muted); font-size: 12.5px; line-height: 1.45 }
 .empty { color: var(--muted); font-size: 13px }
 .prog { height: 6px; background: var(--sub); border-radius: 99px; overflow: hidden; margin-top: 10px; display: none }
 .prog i { display: block; height: 100%; background: var(--accent); transition: width .5s var(--ease); width: 0 }

diff --git a/module/webroot/index.html b/module/webroot/index.html
@@ -55,7 +55,7 @@
         <div class="seg" id="hot"></div><div class="conf" id="hotConf"></div></div>
       <div class="ctl"><div class="btnrow"><button class="btn" id="full" type="button"></button><button class="q" data-help="h_full"></button></div><div class="conf" id="fullConf"></div></div>
       <div class="ctl"><div class="lab"><span data-t="fullby"></span><button class="q" data-help="h_fullby"></button></div>
-        <div class="switch"><div class="fbrow"><input type="time" id="fbTime" value="07:00" data-label="fullby"><span class="hint" id="fbHint"></span></div><label class="tg"><input type="checkbox" id="fbOn" data-label="fullby"><i></i></label></div>
+        <div class="switch"><div class="fbrow"><span class="tsel"><select id="fbH" data-label="fb_h"></select><b>:</b><select id="fbM" data-label="fb_m"></select></span><span class="hint" id="fbHint"></span></div><label class="tg"><input type="checkbox" id="fbOn" data-label="fullby"><i></i></label></div>
         <div class="conf" id="fbConf"></div></div>
       <div class="ctl"><div class="lab"><span data-t="thermal"></span><button class="q" data-help="h_thermal"></button></div>
         <div class="switch"><div><span class="hint" id="thState"></span><span class="hint next" id="thNext"></span></div><label class="tg"><input type="checkbox" id="thC" data-label="thermal"><i></i></label></div>
@@ -146,7 +146,7 @@
         <div class="hint" data-t="diag_hint"></div></div>
       <div class="ctl"><button class="btn sec" id="saveLog" type="button" data-t="savelog"></button>
         <div class="hint" data-t="savelog_hint"></div></div>
-      <div class="ctl"><button class="btn sec" id="restartBtn" type="button" data-t="restart"></button>
+      <div class="ctl"><div class="btnq"><button class="btn sec" id="restartBtn" type="button" data-t="restart"></button><button class="q" data-help="h_restart"></button></div>
         <div class="conf wrap" id="rsConf"></div>
         <div class="hint" data-t="restart_hint"></div></div>
       <div class="ctl"><div class="switch"><div><b data-t="applog"></b><span class="hint" data-t="applog_s"></span></div>

diff --git a/tests/panel.js b/tests/panel.js
@@ -39,7 +39,7 @@ let bad = 0; const fail = m => { console.log('  ✗ ' + m); bad++; }, ok = m => 
       ev: document.querySelectorAll('#events li').length,
       solid: document.querySelectorAll('#gDrain path').length, dashed: document.querySelectorAll('#gDrain line[stroke-dasharray]').length,
       typ: document.getElementById('lgOn').textContent + ' | ' + document.getElementById('lgOff').textContent,
-      fb: document.getElementById('fbOn').checked && document.getElementById('fbTime').value === '07:00', fbHint: document.getElementById('fbHint').textContent,
+      fb: document.getElementById('fbOn').checked && document.getElementById('fbH').value + ':' + document.getElementById('fbM').value === '07:00', fbHint: document.getElementById('fbHint').textContent,
       off: !document.getElementById('appLog').checked && !document.getElementById('ntf').checked,
       limits: document.getElementById('chgRows').textContent,
       cut: [...document.querySelectorAll('.box .l, .box .s, .box .n')].filter(e => e.scrollWidth > e.clientWidth + 1).map(e => e.textContent),
